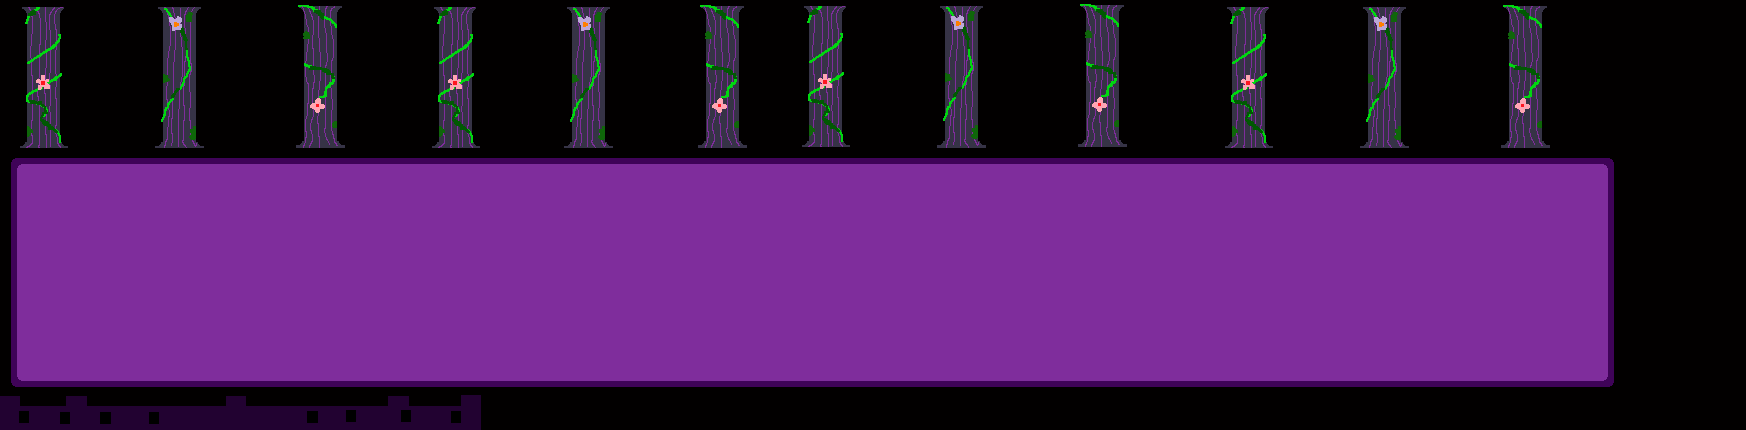
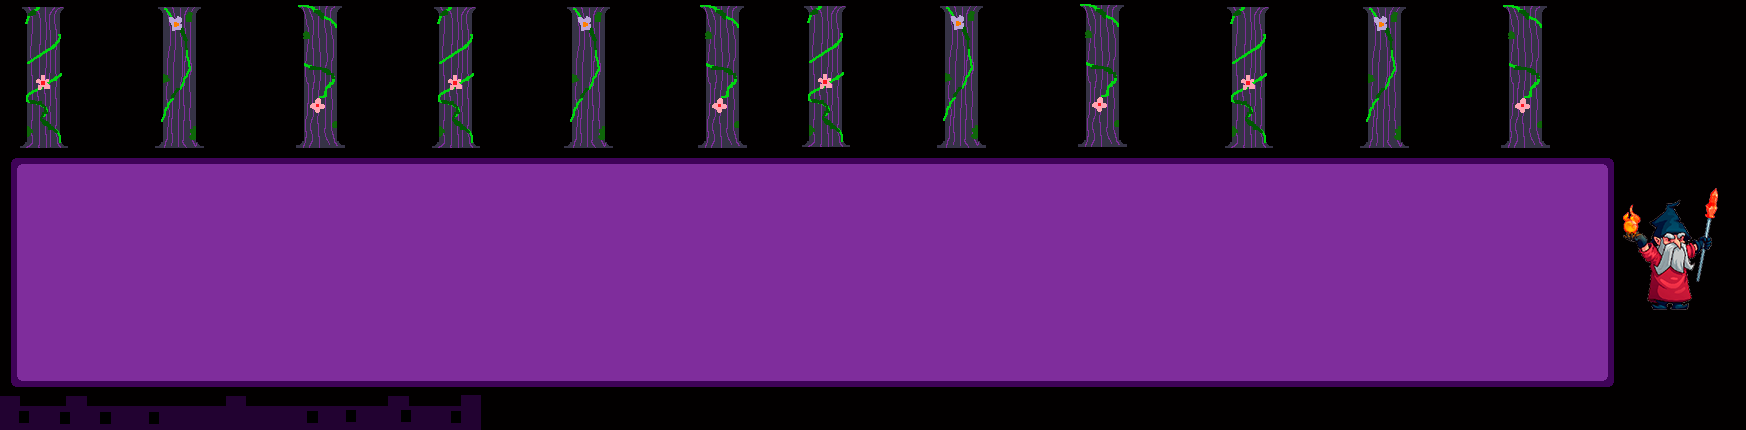
processing

Changed region(s): [[0.9278, 0.4535, 0.9897, 0.7256]]

diff --git a/main.py b/main.py
@@ -802,7 +802,7 @@ class Player(pygame.sprite.Sprite):  # Игрок
                 self.loc = 6
                 end_screen(2, True)
             elif self.loc == 6 or self.loc == 9:
-                a = ['Сердце', "Почки", "Мозг", "Лёгкие"]
+                button_question = ['Сердце', "Почки", "Мозг", "Лёгкие"]
                 all_sprites = pygame.sprite.Group()
                 player_group = pygame.sprite.Group()
                 word_group = pygame.sprite.Group()
@@ -816,7 +816,8 @@ class Player(pygame.sprite.Sprite):  # Игрок
                 font_path = os.path.join("data/fonts", "comic.ttf")
                 font = pygame.font.Font(font_path, 50)
                 ok_tip = random.randint(0, 3)
-                task_text = font.render(a[ok_tip], False, (255, 255, 255))
+                task_text = font.render(button_question[ok_tip], False,
+                                        (255, 255, 255))
                 x, y = 700, 640
                 player.loc = 7
             elif self.loc == 7:
@@ -1072,13 +1073,15 @@ class Sign(pygame.sprite.Sprite):  # Табличка
         self.rect = self.image.get_rect().move(x_pos, y_pos)
 
 
-class Letters(pygame.sprite.Sprite):  # Слова
+class Letters(pygame.sprite.Sprite):  # Буквы для атаки
     def __init__(self, pos_x, pos_y):
         super().__init__(all_sprites)
-        a = random.choice(['objects/letter_a.png', 'objects/letter_b.png',
-                           'objects/letter_v.png',
-                           'objects/letter_g.png', 'objects/letter_d.png'])
-        image_path = load_image(a)
+        random_letters = random.choice(['objects/letter_a.png',
+                                        'objects/letter_b.png',
+                                        'objects/letter_v.png',
+                                        'objects/letter_g.png',
+                                        'objects/letter_d.png'])
+        image_path = load_image(random_letters)
         self.image = pygame.transform.scale(image_path, (40, 60))
         self.rect = self.image.get_rect().move(pos_x, pos_y)
 
@@ -1479,8 +1482,8 @@ if __name__ == '__main__':  # Запуск программы
         all_sprites.draw(screen)
         if player.loc == 7:
             screen.blit(task_text, (x - player.x + 780, y - player.y + 160))
-        if not player.key and pygame.sprite.collide_mask(player,
-                                                         chest):  # Взаимодействие с сундуком
+        if not player.key and pygame.sprite.collide_mask(player, chest):
+            # Взаимодействие с сундуком
             font_path = os.path.join("data/fonts", "comic.ttf")
             font = pygame.font.Font(font_path, 40)
             task_text = font.render("Нужен ключ!", False, (255, 255, 255))
@@ -1521,6 +1524,7 @@ if __name__ == '__main__':  # Запуск программы
                                  random.randint(y - player.y + 450,
                                                 y - player.y + 660))
                 word_group.add(letter)
+                wizardRus.rect.y = letter.rect.y
             word_group.update()
             word_group.draw(screen)
 

diff --git a/test.py b/test.py
@@ -16,7 +16,7 @@ pygame.display.set_caption('Volume Control')
 
 # Загрузка звукового файла
 pygame.mixer.init()
-pygame.mixer.music.load('data/mus_town.ogg')  # Замените 'your_music_file.mp3' на свой файл
+pygame.mixer.music.load('data/music/mus_town.ogg')  # Замените 'your_music_file.mp3' на свой файл
 
 # Создание ползунка
 font = pygame.font.Font(None, 36)
